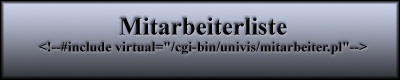
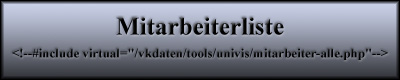
Fuer Mitarbeiter Script angepasst.

Changed region(s): [[0.03, 0.5, 0.99, 0.75], [0.27, 0.2, 0.72, 0.45]]

diff --git a/tiny_mce/plugins/mitarbeiter/editor_plugin.js b/tiny_mce/plugins/mitarbeiter/editor_plugin.js
@@ -11,13 +11,13 @@
 (function() {
 	// Load plugin specific language pack
 	// tinymce.PluginManager.requireLangPack('mitarbeiter');
-	
+
 	tinymce.create('tinymce.plugins.MitarbeiterPlugin', {
 
 		init : function(ed, url) {
 			var ma_img = '<img title="Mitarbeiter" src="' + url +'/img/mitarbeiter.jpg" alt="" />',
 			cls = 'addMitarbeiter',
-			ma_inhalt = '<!--#include virtual="/cgi-bin/univis/mitarbeiter.pl" -->';
+			ma_inhalt = '<!--#include virtual="/vkdaten/tools/univis/mitarbeiter-alle.php" -->';
 			// Register the command
 			ed.addCommand(cls, function() {
 				ed.execCommand('mceInsertContent', 0, ma_img);
@@ -29,7 +29,7 @@
 				cmd : cls,
 				image : url + '/img/ma_ico.gif'
 			});
-			
+
 			ed.onClick.add(function(ed, e) {
 				e = e.target;
 
@@ -41,11 +41,11 @@
 			ed.onNodeChange.add(function(ed, cm, n) {
 				cm.setActive('mitarbeiter', n.nodeName == 'IMG' && ed.dom.hasClass(n, cls));
 			});
-			
+
 			ed.onBeforeSetContent.add(function(ed, o) {
-				o.content = o.content.replace(/<!--#include virtual=\"\/cgi-bin\/univis\/mitarbeiter\.pl\" -->/g, ma_img);
+				o.content = o.content.replace(/<!--#include virtual=\"\/vkdaten\/tools\/univis\/mitarbeiter-alle\.php\" -->/g, ma_img);
 			});
-			
+
 			ed.onPostProcess.add(function(ed, o) {
 				if (o.get){
 					while(o.content.search(ma_img) != -1){
